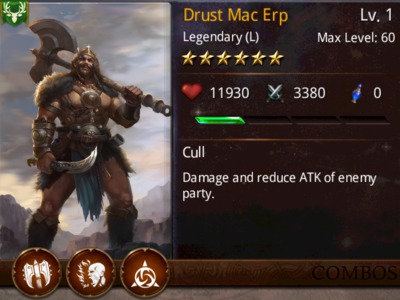
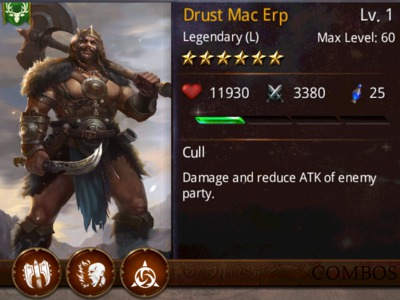
Update few card's mana value

Changed region(s): [[0.0, 0.0, 0.45, 0.87], [0.93, 0.27, 0.96, 0.33], [0.42, 0.15, 0.45, 0.18]]

diff --git a/cards.js b/cards.js
@@ -56,7 +56,7 @@ var cards = [
   new Card("Druid Sage", "Druid", 1, 5, 10, 1375, 425, []),
   new Card("Druid Scout", "Druid", 1, 3, 10, 750, 250, []),
   new Card("Druid Warrior", "Druid", 1, 4, 10, 1065, 335, ["Druid Warriors",]),
-  new Card("Drust Mac Erp", "Druid", 6, "", 60, 11930, 3380, ["Champions","Savage Elite","Ultimate Fighters",]),
+  new Card("Drust Mac Erp", "Druid", 6, 25, 60, 11930, 3380, ["Champions","Savage Elite","Ultimate Fighters",]),
   new Card("Duelist", "Camelot", 4, "", 40, 6130, 1492, ["Finesse Fighters",]),
   new Card("Earth Elemental", "Druid", 4, "", 40, 6092, 1878, ["Regeneration","Nature's Wrath","Elemental Fury",]),
   new Card("Earth Mother", "Druid", 5, 20, 50, 9090, 2185, ["Unstoppable Force","Earthen Might",]),
@@ -142,7 +142,7 @@ var cards = [
   new Card("Shanke", "Camelot", 4, "", 40, 5511, 2032, ["Assassin's Alliance",]),
   new Card("Silverheart", "Demon", 6, "", 60, 12930, 3080, ["Frozen Terrors","Pet Familiars",]),
   new Card("Sir Galahad", "Camelot", 6, 19, 60, 11240, 2640, ["Suited Up","Elite Force","Lords and Guards","Fearless Fighters","Champions",]),
-  new Card("Sir Kay", "Camelot", 5, "", 50, 7552, 1818, ["Suited Up","Hot Blooded","Fearless Fighters",]),
+  new Card("Sir Kay", "Camelot", 5, 15, 50, 7552, 1818, ["Suited Up","Hot Blooded","Fearless Fighters",]),
   new Card("Sir Valamir", "Demon", 5, "", 50, 9877, 3024, ["Corrupted","Pure Evil","Thirst of Night",]),
   new Card("Skinchanger", "Druid", 2, 7, 20, 2225, 680, ["Defenders",]),
   new Card("Soulbane", "Demon", 4, "", 40, 4732, 1991, ["Necro Party",]),
@@ -159,7 +159,7 @@ var cards = [
   new Card("The Horned Lord", "Druid", 5, 13, 50, 5980, 1852, ["Gods","Forest Guardians","Shamans","Theurgists","Stag Pack",]),
   new Card("The Prophet", "Camelot", 5, 15, 50, 6600, 1550, ["Mystics","Cunning Foes","Wise Sages","Premeditation",]),
   new Card("Thorn Witch", "Druid", 3, 10, 30, 3855, 1200, ["Regeneration","Thorny Threat",]),
-  new Card("Totem Guard", "Druid", 6, "", 60, 10857, 3265, ["Druid Elite","Brute Force","King Size Weapons","Enchanted Weapons","Final Stand","Champions",]),
+  new Card("Totem Guard", "Druid", 6, 22, 60, 10857, 3265, ["Druid Elite","Brute Force","King Size Weapons","Enchanted Weapons","Final Stand","Champions",]),
   new Card("Toymaker", "Camelot", 4, "", 40, 4320, 1368, ["Polar",]),
   new Card("Trahern", "Demon", 4, "", 40, 6124, 1973, ["Monster Mash",]),
   new Card("Treehound", "Druid", 6, 21, 50, 10857, 3265, ["Living Forest","Cold Killers","Cunning Foes",]),
